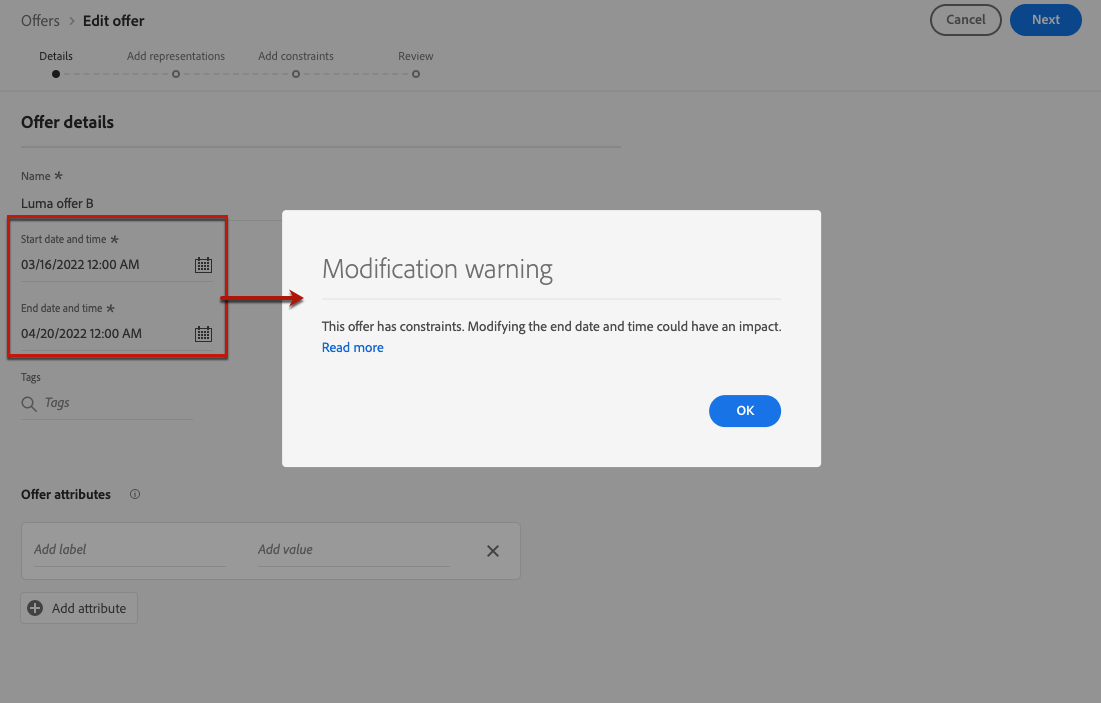
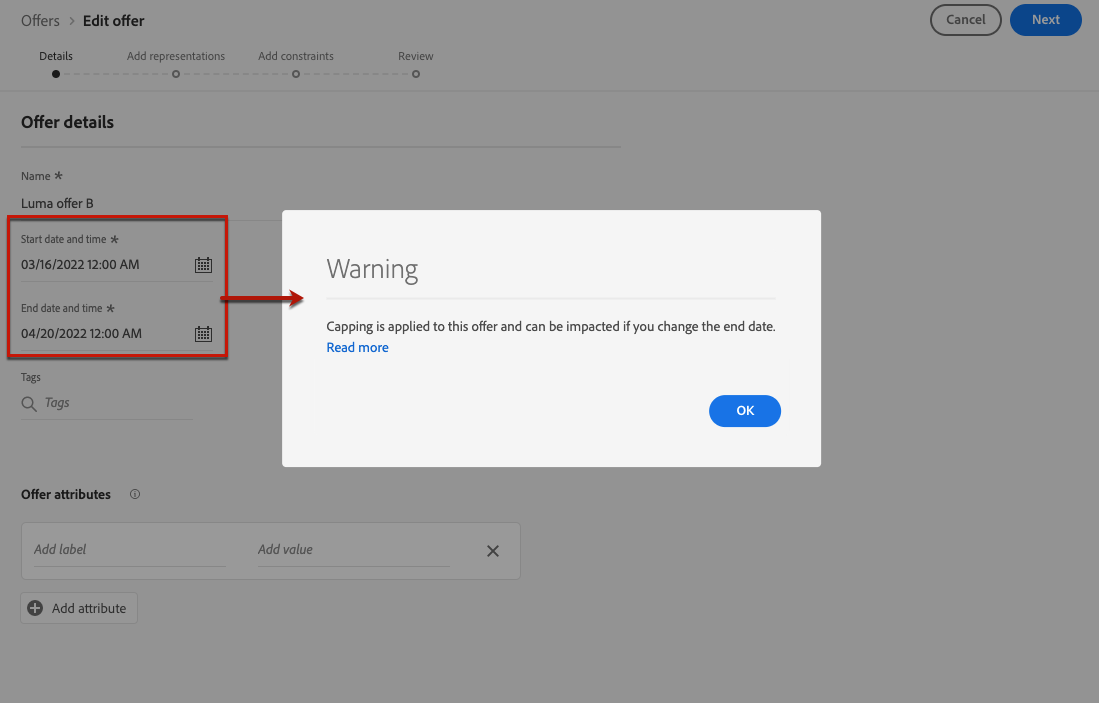
small edits on constraints and capping

diff --git a/help/using/offers/offer-library/add-constraints.md b/help/using/offers/offer-library/add-constraints.md
@@ -26,7 +26,7 @@ exl-id: 7234a8e8-4ab0-4f17-a833-5e452fadac35
 
 >[!CONTEXTUALHELP]
 >id="ajo_decisioning_priority"
->title="Priority"
+>title="Set priority"
 >abstract="The priority helps define the priority of the offer compared to other ones if the user qualifies for more than one offer. The higher an offer's priority will be, the higher its priority will be compared to other offers."
 
 Constraints allow you to define the conditions under which an offer will be displayed.
@@ -57,8 +57,8 @@ For example, if you set the following constraints:
 
 >[!CONTEXTUALHELP]
 >id="ajo_decisioning_eligibility"
->title="Eligibility"
->abstract="Offer eligibility allows you to restrict the offer to specific profiles that you define using segments or decision rules."
+>title="Define eligibility"
+>abstract="By default, any profile will be eligible to be presented the offer, but you can use segments or decision rules to restrict the offer to specific profiles."
 
 >[!CONTEXTUALHELP]
 >id="od_offer_eligibility"
@@ -108,7 +108,7 @@ Basically, the output of a segment is a list of profiles, whereas a decision rul
 
     Learn more on decision rules in [this section](creating-decision-rules.md).
 
-## Frequency capping {#capping}
+## Capping {#capping}
 
 >[!CONTEXTUALHELP]
 >id="od_offer_globalcap"
@@ -117,8 +117,8 @@ Basically, the output of a segment is a list of profiles, whereas a decision rul
 
 >[!CONTEXTUALHELP]
 >id="ajo_decisioning_capping"
->title="Capping"
->abstract="Capping is used as a constraint to define the maximum number of times an offer can be presented."
+>title="Use capping"
+>abstract="To avoid over-solicitating your customers, use capping to define the maximum number of times an offer can be presented."
 
 Capping is used as a constraint to define the maximum number of times an offer can be presented.
 
@@ -172,8 +172,8 @@ The number of times an offer is proposed is calculated at email preparation time
 
 >[!CONTEXTUALHELP]
 >id="ajo_decisioning_offer_change_date"
->title="Changing the date may have an impact on capping"
->abstract="If capping is applied to this offer, it may be impacted when you change the start or end date."
+>title="Changing dates can impact capping"
+>abstract="If capping is applied to this offer, it can be impacted when you change the start or end date."
 
 You must proceed with care when changing the date of an offer, because this can have an impact on capping if the following conditions are met:
 
@@ -185,7 +185,7 @@ You must proceed with care when changing the date of an offer, because this can 
 >
 >Learn how to define an offer's date in [this section](creating-personalized-offers.md#create-offer).
 
-Frequency capping per profile stores the capping counts on each profile. When you change the start and end date of an approved offer, the capping count for some profiles could be impacted according to the different scenarios described below.
+Capping per profile stores the capping counts on each profile. When you change the start and end date of an approved offer, the capping count for some profiles could be impacted according to the different scenarios described below.
 
 ![](../assets/offer-capping-change-date.png)
 
